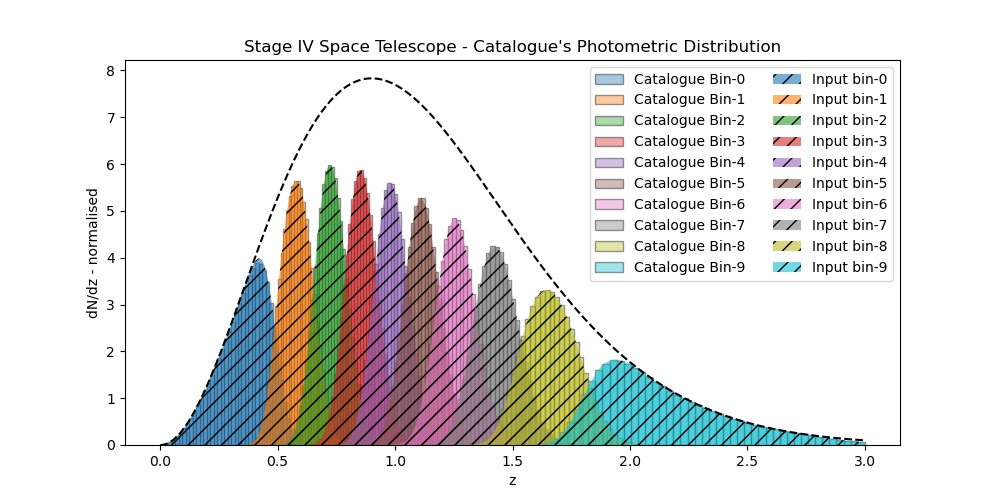
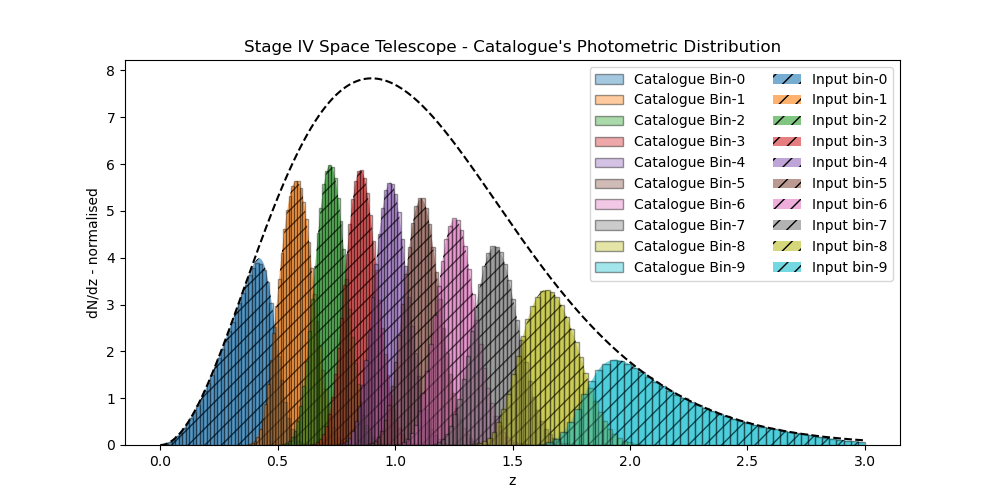
update for 2x resolution

Changed region(s): [[0.155, 0.36, 0.868, 0.9]]

diff --git a/docs/examples/2_advanced/plot_s4_galaxies.rst b/docs/examples/2_advanced/plot_s4_galaxies.rst
@@ -151,7 +151,7 @@ distribution for each of the equal density tomographic bins
 
 .. image-sg:: /examples/2_advanced/images/sphx_glr_plot_s4_galaxies_001.png
    :alt: Stage IV Space Telescope - Photometric Distribution: equal density bins
-   :srcset: /examples/2_advanced/images/sphx_glr_plot_s4_galaxies_001.png
+   :srcset: /examples/2_advanced/images/sphx_glr_plot_s4_galaxies_001.png, /examples/2_advanced/images/sphx_glr_plot_s4_galaxies_001_2_0x.png 2.0x
    :class: sphx-glr-single-img
 
 
@@ -178,7 +178,7 @@ also compute its fsky for the extected galaxy count
 
 .. image-sg:: /examples/2_advanced/images/sphx_glr_plot_s4_galaxies_002.png
    :alt: Stage IV Space Survey-like Mask
-   :srcset: /examples/2_advanced/images/sphx_glr_plot_s4_galaxies_002.png
+   :srcset: /examples/2_advanced/images/sphx_glr_plot_s4_galaxies_002.png, /examples/2_advanced/images/sphx_glr_plot_s4_galaxies_002_2_0x.png 2.0x
    :class: sphx-glr-single-img
 
 
@@ -349,7 +349,7 @@ see how our simulation performed.
 
 .. image-sg:: /examples/2_advanced/images/sphx_glr_plot_s4_galaxies_003.png
    :alt: Stage IV Space Telescope - Catalogue's Photometric Distribution
-   :srcset: /examples/2_advanced/images/sphx_glr_plot_s4_galaxies_003.png
+   :srcset: /examples/2_advanced/images/sphx_glr_plot_s4_galaxies_003.png, /examples/2_advanced/images/sphx_glr_plot_s4_galaxies_003_2_0x.png 2.0x
    :class: sphx-glr-single-img
 
 
